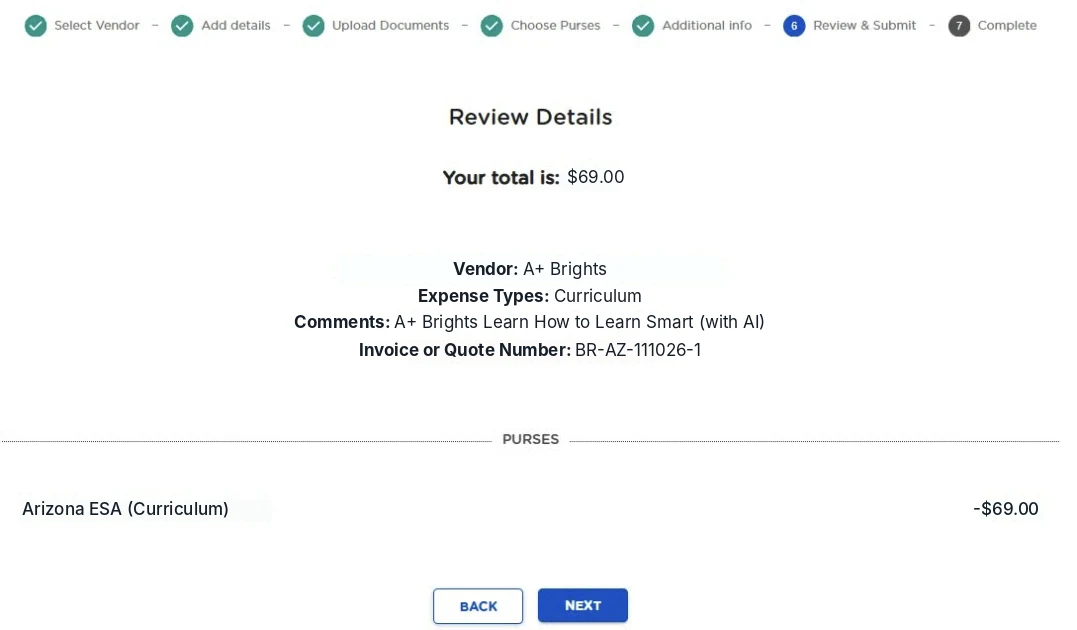
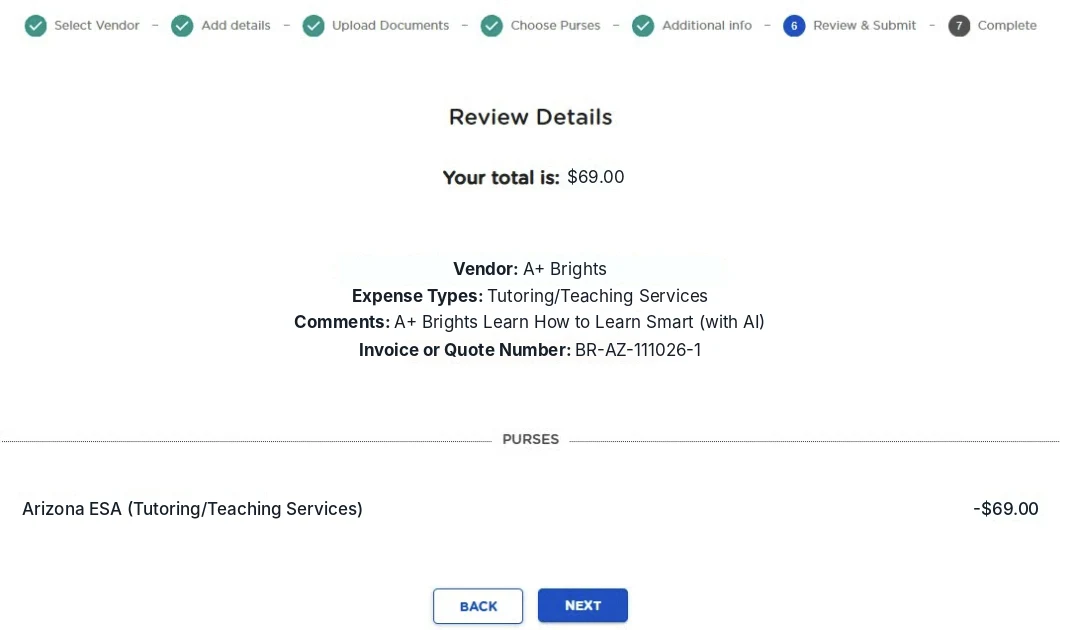
AZ guide: generic category text, Tutoring on screenshots; remove Access line from invoice
Claude-Session: https://claude.ai/code/session_01B1geoaUQxw5WqbYHax5XU1

Changed region(s): [[0.3064, 0.4524, 0.6741, 0.4825], [0.1226, 0.7841, 0.337, 0.8444]]

diff --git a/aplus/main/js/invoice-generator.js b/aplus/main/js/invoice-generator.js
@@ -42,7 +42,7 @@
           'Search for "' + VENDOR.displayName + '" and click PAY.',
           'Enter the payment amount: ' + money(inv.total) + '.',
           'Upload this invoice (PDF).',
-          'Choose the Arizona ESA purse. If asked for an expense category, choose ' + this.category + '.',
+          'Choose the Arizona ESA purse and the expense category that fits your order.',
           'Comments: "' + inv.description + '". Invoice number: ' + inv.number + '.',
           'Review and submit.'
         ];
@@ -190,7 +190,6 @@
     var meta = [
       ['Invoice number', inv.number],
       ['Invoice date', longDate(inv.date)],
-      ['Access', 'From order approval, no end date'],
       ['Amount due', money(inv.total)],
       ['Pay with', state.platform]
     ];

diff --git a/study/main/js/invoice-generator.js b/study/main/js/invoice-generator.js
@@ -42,7 +42,7 @@
           'Search for "' + VENDOR.displayName + '" and click PAY.',
           'Enter the payment amount: ' + money(inv.total) + '.',
           'Upload this invoice (PDF).',
-          'Choose the Arizona ESA purse. If asked for an expense category, choose ' + this.category + '.',
+          'Choose the Arizona ESA purse and the expense category that fits your order.',
           'Comments: "' + inv.description + '". Invoice number: ' + inv.number + '.',
           'Review and submit.'
         ];
@@ -190,7 +190,6 @@
     var meta = [
       ['Invoice number', inv.number],
       ['Invoice date', longDate(inv.date)],
-      ['Access', 'From order approval, no end date'],
       ['Amount due', money(inv.total)],
       ['Pay with', state.platform]
     ];

diff --git a/aplus/main/arizona-esa-classwallet.html b/aplus/main/arizona-esa-classwallet.html
@@ -134,7 +134,7 @@
               <span class="cw-num">5</span>
               <h3>Choose the purse and expense category</h3>
               <p>Tick your <b>Arizona ESA</b> purse. It covers the full total.</p>
-              <p>For the expense category, choose <b>Curriculum</b>. Click <b>NEXT</b>.</p>
+              <p>Then choose the expense category that fits your order. Click <b>NEXT</b>.</p>
             </div>
             <div class="cw-shots">
               <figure class="cw-shot"><img src="/main/img/classwallet/7.webp" width="1134" height="595" loading="lazy" alt="ClassWallet Choose Purses step"></figure>

diff --git a/study/main/arizona-esa-classwallet.html b/study/main/arizona-esa-classwallet.html
@@ -134,7 +134,7 @@
               <span class="cw-num">5</span>
               <h3>Choose the purse and expense category</h3>
               <p>Tick your <b>Arizona ESA</b> purse. It covers the full total.</p>
-              <p>For the expense category, choose <b>Curriculum</b>. Click <b>NEXT</b>.</p>
+              <p>Then choose the expense category that fits your order. Click <b>NEXT</b>.</p>
             </div>
             <div class="cw-shots">
               <figure class="cw-shot"><img src="/main/img/classwallet/7.webp" width="1134" height="595" loading="lazy" alt="ClassWallet Choose Purses step"></figure>
